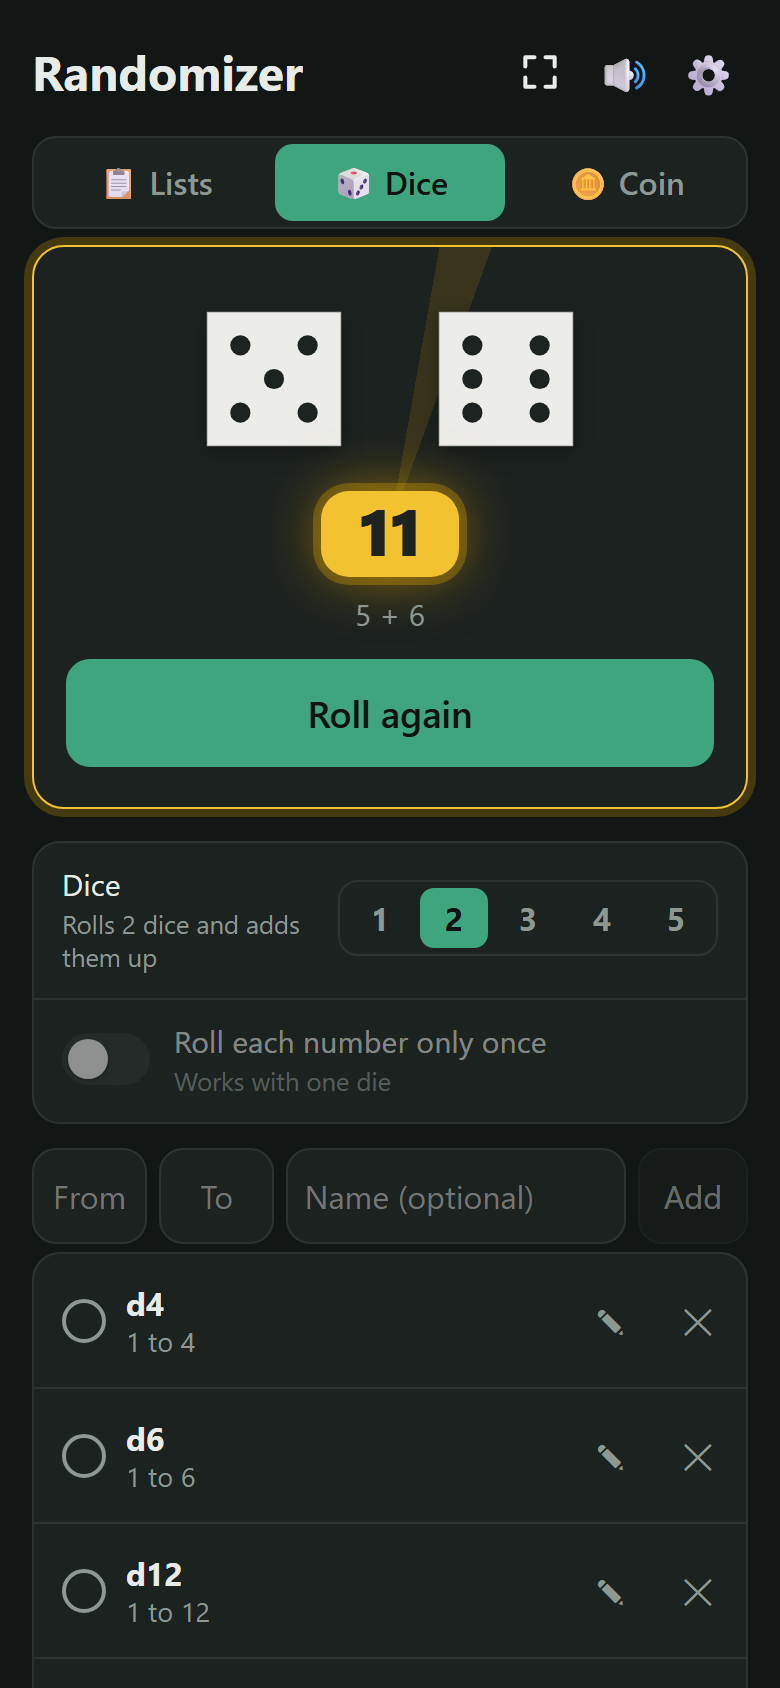
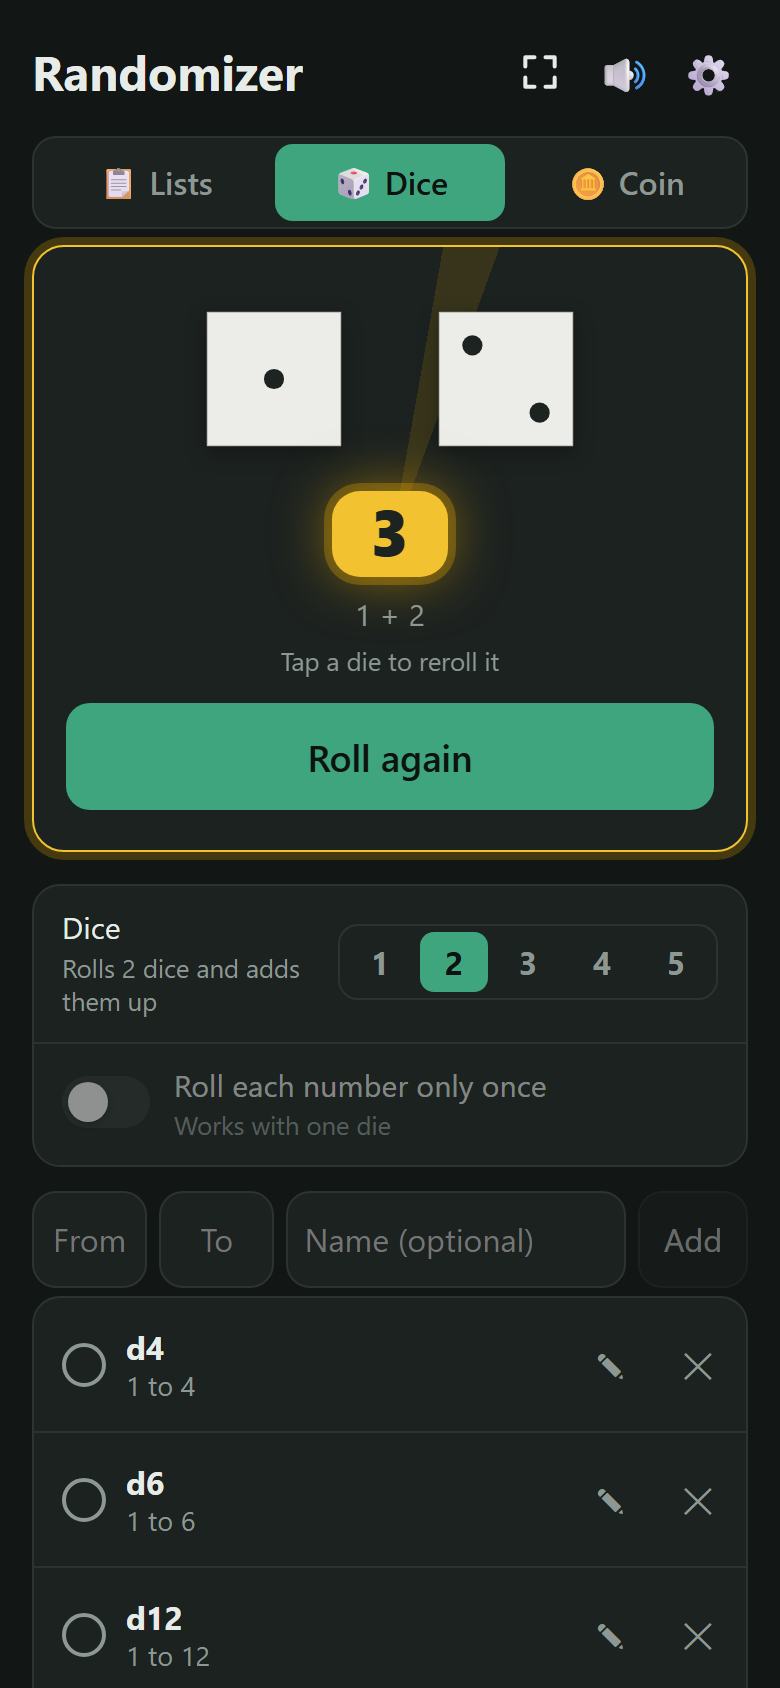
Reroll hint; lighter coin flip; reel badge ring shows all round
- After a roll with several dice, "Tap a die to reroll it" shows under
  the total, until a die has been rerolled three times.
- The coin canvas is capped at 2x resolution, each frame clears and
  redraws only the area around the coin and its shadow, and the canvas
  blur filter (slow on phones) is replaced by a faint trailing copy.
- The reel's rows no longer clip, so the middle name's gold ring shows
  above and below it too.

diff --git a/index.html b/index.html
@@ -178,15 +178,19 @@
   .reel-strip { position: absolute; left: 0; right: 0; top: 0; will-change: transform; }
   .reel-item {
     height: 50px; display: flex; align-items: center; justify-content: center; padding: 0 12px;
-    font-size: 1.9rem; font-weight: 800; white-space: nowrap; overflow: hidden; text-overflow: ellipsis;
+    font-size: 1.9rem; font-weight: 800; white-space: nowrap;
+    /* not clipped, so the badge's gold ring shows above and below the name too (the name itself is cut off in its span) */
   }
   .reel-item.long { font-size: 1.35rem; }
   /* the name in the middle wears the gold badge; the others shrink and fade with distance (set as it turns) */
-  .reel-item span { padding: .04em .6em .2em; border-radius: 14px; overflow: hidden; text-overflow: ellipsis; }
+  .reel-item span { max-width: 100%; padding: .04em .6em .2em; border-radius: 14px; overflow: hidden; text-overflow: ellipsis; }
   .reel-item.hot span { background: var(--gold); color: #1d2321; box-shadow: 0 0 0 4px rgba(224, 164, 0, .3), 0 0 22px rgba(224, 164, 0, .5); }
   /* with several dice, the dice that were rolled show under the total */
   #resultParts { color: var(--muted); font-size: .95rem; margin-top: 8px; font-variant-numeric: tabular-nums; }
   #resultParts[hidden] { display: none; }
+  /* after a roll with several dice, until you have rerolled a die a few times */
+  #rerollHint { grid-area: 3 / 1; color: var(--muted); font-size: .8rem; margin-top: 4px; }
+  #rerollHint[hidden] { display: none; }
 
   /* the coin, drawn in 3D on a canvas (see "Flipping a coin" in the script); seen
      from above, lying on a table. The canvas reaches far above the coin, so a
@@ -658,7 +662,7 @@
     <div id="die" aria-hidden="true"></div>
     <div class="coin-box coin-only" aria-hidden="true"><canvas id="coinCanvas"></canvas></div>
 
-    <div class="stage"><div id="reel" aria-hidden="true"><div class="reel-strip" id="reelStrip"></div><div class="reel-pointer left"></div><div class="reel-pointer right"></div></div><div id="result" class="hint">Add some options, then tap Pick!</div><div id="resultParts" hidden></div></div>
+    <div class="stage"><div id="reel" aria-hidden="true"><div class="reel-strip" id="reelStrip"></div><div class="reel-pointer left"></div><div class="reel-pointer right"></div></div><div id="result" class="hint">Add some options, then tap Pick!</div><div id="resultParts" hidden></div><div id="rerollHint" hidden>Tap a die to reroll it</div></div>
     <button id="pick" type="button">Pick!</button>
     <div class="shake-ask" id="shakeAsk" hidden>
       <button type="button" class="shake-tip" id="shakeTip">📳 Tap to turn on shake to pick</button>
@@ -827,6 +831,7 @@ const KEY = 'whostarts.v1';
 const MUTE_KEY = 'whostarts.muted';
 const SHAKE_KEY = 'whostarts.shake';
 const SPIN_KEY = 'whostarts.spin';
+const REROLLS_KEY = 'whostarts.rerolls'; // how many times a single die was rerolled (its hint goes after 3)
 const MODE_KEY = 'whostarts.mode';
 const NUM_KEY = 'whostarts.numbers';
 
@@ -1457,6 +1462,7 @@ function resetCard() {
   $('card').className = 'starter';
   $('pick').textContent = idleLabel();
   $('resultParts').hidden = true;
+  $('rerollHint').hidden = true;
   delete $('pick').dataset.mode;
 }
 
@@ -3241,6 +3247,7 @@ function rollNumber() {
   $('card').className = 'starter rolling';
   $('crown').className = '';
   $('resultParts').hidden = true;
+  $('rerollHint').hidden = true;
   // the dice make their own sounds as they tumble (see rollDice)
   rollDice(range, values, rollLength(total));
   const magic = dieFor(range).magic;
@@ -3285,6 +3292,8 @@ function showRolled(range, values, celebrate) {
   result.textContent = shown;
   $('resultParts').textContent = parts;
   $('resultParts').hidden = !parts;
+  // tells you a die can be rerolled, until you have done it a few times
+  $('rerollHint').hidden = !parts || Number(pref(REROLLS_KEY, '0')) >= 3;
   announce(parts ? `Rolled ${shown}: ${parts}` : `Rolled ${shown}`);
   $('card').className = 'starter winner';
   $('pick').textContent = 'Roll again';
@@ -3311,6 +3320,8 @@ $('die').addEventListener('click', (e) => {
   values[which] = range.from + randomInt(range.to - range.from + 1);
   rolling = true;
   $('pick').disabled = true;
+  setPref(REROLLS_KEY, String(Number(pref(REROLLS_KEY, '0')) + 1));
+  $('rerollHint').hidden = true;
   const ms = Math.round(rollLength(spinTicks(true)) * 0.6);
   rollDice(range, values, ms, look.percentile ? [which * 2, which * 2 + 1] : [i]);
   if (navigator.vibrate) navigator.vibrate(10);
@@ -3340,7 +3351,7 @@ const HEADS_UP = [1, 0, 0, 0];
 const TAILS_UP = qAxis([1, 0, 0], Math.PI);
 const coinCanvas = $('coinCanvas');
 const coinCtx = coinCanvas.getContext('2d');
-let coin = { q: HEADS_UP, z: 0, blur: 0 };  // how it lies, how high above the table, and its motion blur
+let coin = { q: HEADS_UP, z: 0, blur: 0, ghost: null };  // how it lies, how high above the table, and its motion blur (how strong, and the copy's pose)
 let coinAnim = null;
 
 // the two metals: color, the color of its shine, and the dark and light edges of raised shapes
@@ -3365,18 +3376,21 @@ function metal(n, ridge = 1, m = GOLD) {
 const rgb = (c, a = 1) => `rgba(${c[0]}, ${c[1]}, ${c[2]}, ${a})`;
 const shadeBy = (c, k) => c.map(v => Math.min(255, Math.round(v * k)));
 
+// Kept light for phones: at most 2× resolution (sharp enough at this size),
+// and each frame only clears and redraws the area the coin and its shadow
+// were in, not the whole tall canvas.
+let coinDirty = null; // [x, y, w, h] drawn last frame, in canvas pixels
 function drawCoin() {
-  const dpr = Math.min(3, window.devicePixelRatio || 1);
+  const dpr = Math.min(2, window.devicePixelRatio || 1);
   const W = Math.round(COIN_W * dpr), H = Math.round(COIN_H * dpr);
-  if (coinCanvas.width !== W) { coinCanvas.width = W; coinCanvas.height = H; }
+  if (coinCanvas.width !== W) { coinCanvas.width = W; coinCanvas.height = H; coinDirty = null; }
   const ctx = coinCtx;
   ctx.setTransform(1, 0, 0, 1, 0, 0);
-  ctx.clearRect(0, 0, W, H);
-  const size = COIN_R * dpr, D = 6, mx = W / 2, my = COIN_Y * dpr;
+  if (coinDirty) ctx.clearRect(...coinDirty);
+  else ctx.clearRect(0, 0, W, H);
+  const size = COIN_R * dpr, mx = W / 2, my = COIN_Y * dpr;
   const lift = coin.z * COIN_RISE * dpr; // higher in the air is further up the screen
-  const R = qMatrix(coin.q);
-  const at = (p) => { const w = turn(R, p); const f = D / (D - w[2] - coin.z); return [mx + w[0] * size * f, my - lift - w[1] * size * f]; };
-  const top = turn(R, [0, 0, 1]);
+  const top = turn(qMatrix(coin.q), [0, 0, 1]);
 
   // the shadow stays on the table where it will land: smaller and fainter the higher the coin is
   const high = Math.max(0, coin.z);
@@ -3390,9 +3404,28 @@ function drawCoin() {
   ctx.arc(sx, sy, sr * 1.15, 0, Math.PI * 2);
   ctx.fill();
 
-  // motion blur while it spins fast (where the browser can blur a canvas)
-  if (coin.blur > 0.05 && 'filter' in ctx) ctx.filter = `blur(${(coin.blur * dpr).toFixed(2)}px)`;
+  // motion blur, faked cheaply: a faint copy of the coin a little behind in
+  // its turn (plain, without the relief), under the coin itself
+  if (coin.ghost) {
+    ctx.globalAlpha = coin.blur;
+    drawCoinBody(coin.ghost, size, mx, my - lift, true);
+    ctx.globalAlpha = 1;
+  }
+  drawCoinBody(coin.q, size, mx, my - lift, false);
 
+  // what to clear next time: the coin (up to 1.5× bigger in the air) and the shadow
+  const cr = size * 1.6, cy = my - lift;
+  const x0 = Math.floor(Math.min(mx - cr, sx - sr * 1.2)), x1 = Math.ceil(Math.max(mx + cr, sx + sr * 1.2));
+  const y0 = Math.floor(Math.min(cy - cr, sy - sr * 1.2)), y1 = Math.ceil(Math.max(cy + cr, sy + sr * 1.2));
+  coinDirty = [x0, y0, x1 - x0, y1 - y0];
+}
+
+// The coin itself, turned by q, with its middle at (mx, my). plain leaves out
+// the sheen and the relief (for the motion-blur copy).
+function drawCoinBody(q, size, mx, my, plain) {
+  const ctx = coinCtx, D = 6;
+  const R = qMatrix(q);
+  const at = (p) => { const w = turn(R, p); const f = D / (D - w[2] - coin.z); return [mx + w[0] * size * f, my - w[1] * size * f]; };
   const facing = (n, c) => dot(turn(R, n), sub([0, 0, D - coin.z], turn(R, c))) > 0;
   // the ridged edge: one thin side per segment, alternately lighter and darker,
   // gold on the heads half of its thickness and silver on the tails half
@@ -3421,6 +3454,7 @@ function drawCoin() {
     ctx.beginPath();
     ring.forEach((p, t) => (t ? ctx.lineTo : ctx.moveTo).call(ctx, ...p));
     ctx.closePath();
+    if (plain) { ctx.fillStyle = rgb(base); ctx.fill(); continue; }
     // a soft sheen across the face that moves as the coin turns
     const p1 = at([-0.9, 0.9 * side, c[2]]), p2 = at([0.9, -0.9 * side, c[2]]);
     const sheen = ctx.createLinearGradient(p1[0], p1[1], p2[0], p2[1]);
@@ -3465,7 +3499,6 @@ function drawCoin() {
     raised((color) => { ctx.fillStyle = color; rimDots(); ctx.fill(); }, relief);
     ctx.setTransform(1, 0, 0, 1, 0, 0);
   }
-  ctx.filter = 'none';
 }
 
 // heads: a crown with three points and a band (in coin radii, y down)
@@ -3541,19 +3574,20 @@ function coinFrame(now) {
     const dip = Math.sin(Math.PI * x / FLICK);
     coin.q = qMul(qAxis([1, 0, 0], -0.22 * dip), a.from);
     coin.z = -0.12 * dip;
-    coin.blur = 0;
+    coin.ghost = null;
   } else if (x < FLY) {
     const u = (x - FLICK) / (FLY - FLICK);
-    const spin = qMul(qAxis([1, 0, 0], a.total * u), a.from);
-    coin.q = qMul(qAxis([0, 1, 0], a.lean * Math.sin(Math.PI * u)), spin);
+    const pose = (u) => qMul(qAxis([0, 1, 0], a.lean * Math.sin(Math.PI * u)), qMul(qAxis([1, 0, 0], a.total * u), a.from));
+    coin.q = pose(u);
     coin.z = 1.7 * 4 * u * (1 - u);
     // blurred at the start, sharp by the time it comes down, so you can read the side
-    coin.blur = 2.4 * Math.min(1, u / 0.06) * Math.max(0, 1 - u / 0.7);
+    coin.blur = 0.45 * Math.min(1, u / 0.06) * Math.max(0, 1 - u / 0.7);
+    coin.ghost = coin.blur > 0.02 ? pose(Math.max(0, u - 0.5 / a.total)) : null;
   } else {
     const w = Math.min(1, (x - FLY) / (BOUNCE - FLY));
     coin.q = a.end;
     coin.z = 0.2 * 4 * w * (1 - w); // one small hop, flat
-    coin.blur = 0;
+    coin.ghost = null;
   }
   drawCoin();
   if (x < 1) requestAnimationFrame(coinFrame);

diff --git a/sw.js b/sw.js
@@ -1,5 +1,5 @@
 // Bump the version when you change any file so phones pick up the update.
-const CACHE = 'whostarts-v89';
+const CACHE = 'whostarts-v90';
 const FILES = ['./', 'index.html', 'manifest.json', 'icon-192.png', 'icon-512.png'];
 
 // 'reload' skips the browser's own HTTP cache, so a new version really gets

diff --git a/README.md b/README.md
@@ -9,7 +9,7 @@ It installs on your phone like a normal app, works offline, and remembers your l
 <p align="center">
   <img src="screenshots/lists.png" alt="A list of options: Ben, Sam, Alex, Mia and Noah (left out)" width="160">
   <img src="screenshots/picked.png" alt="One option has been picked, shown in a gold badge with a crown" width="160">
-  <img src="screenshots/dice.png" alt="Dice mode after rolling 2d6: two 3D dice showing 4 and 1, and the total 5 in a gold badge" width="160">
+  <img src="screenshots/dice.png" alt="Dice mode after rolling 2d6: two 3D dice showing 1 and 2, the total 3 in a gold badge, and the hint Tap a die to reroll it" width="160">
   <img src="screenshots/magic.png" alt="The purple magic d20 after rolling a 1 to 1,000 raffle ticket, with the number in a gold badge" width="160">
   <img src="screenshots/coin.png" alt="Coin mode after a flip: a big 3D silver coin with a raised star in a ring of dots, Tails in a gold badge, and the heads and tails tally" width="160">
   <img src="screenshots/focus.png" alt="Focus mode: only the pick card in the middle of the screen, with a close button in the corner" width="160">
@@ -95,7 +95,7 @@ Like real dice, opposite faces add up to the same total (1 and 6, 2 and 5, 3 and
 
 **Percentile dice** are how real players roll 1 to 100: two d10s, one with 00, 10, 20 … 90 for the tens and one with 0 to 9 for the ones, added up. 70 and 4 make 74, and 00 and 0 make 100 (on a 0 to 99 range they make 0).
 
-**Reroll one die.** After rolling several dice, tap a die to roll just that one again and keep the others, like in Yahtzee-style dice games. The total, the dice under it and Recent rolls update. (A percentile pair rerolls together; with one die, tapping it is just a new roll.)
+**Reroll one die.** After rolling several dice, tap a die to roll just that one again and keep the others, like in Yahtzee-style dice games. The total, the dice under it and Recent rolls update. A small *Tap a die to reroll it* under the total reminds you, until you have rerolled a die three times. (A percentile pair rerolls together; with one die, tapping it is just a new roll.)
 
 **Sounds.** Each die knocks on the table every quarter turn as it tumbles: quick at first, then further apart and softer as it slows, with a deeper knock when it comes to rest. The magic die twinkles instead.
 
@@ -108,7 +108,7 @@ Switch to **🪙 Coin** at the top and tap **Flip!** (or shake your phone). The 
 **How a flip works.** Like the dice, the side is picked first (with secure random numbers), and the whole flip is worked out to end on it:
 
 1. A thumb flicks it: the coin dips a little with a short *tick*.
-2. With a whoosh, it flies up out of the card and comes back down, getting bigger as it comes toward you. Its shadow stays on the table, shrinking and fading as the coin rises. It turns end over end at a steady speed, leaning a little so you see its edge, with a faint shimmer each time a face catches the light. It's blurred while it's fast and sharp again as it comes down.
+2. With a whoosh, it flies up out of the card and comes back down, getting bigger as it comes toward you. Its shadow stays on the table, shrinking and fading as the coin rises. It turns end over end at a steady speed, leaning a little so you see its edge, with a faint shimmer each time a face catches the light. While it's fast it leaves a faint smear behind (a quick motion blur that stays smooth on phones), and it's sharp again as it comes down.
 3. It lands flat with the picked side up, with a clink, and bounces once.
 
 It never turns over at the end to show the right side; the toss is planned so it lands that way.
@@ -179,7 +179,7 @@ Plain HTML, CSS and JavaScript, with no build step or dependencies.
 ### Making changes
 
 Edit the files and push to `main`. GitHub Pages publishes automatically.
-**Change `CACHE` in `sw.js` every time** (for example `whostarts-v89` → `whostarts-v90`), otherwise installed copies keep showing the old version and the update bar never appears.
+**Change `CACHE` in `sw.js` every time** (for example `whostarts-v90` → `whostarts-v91`), otherwise installed copies keep showing the old version and the update bar never appears.
 
 ## Support
 
